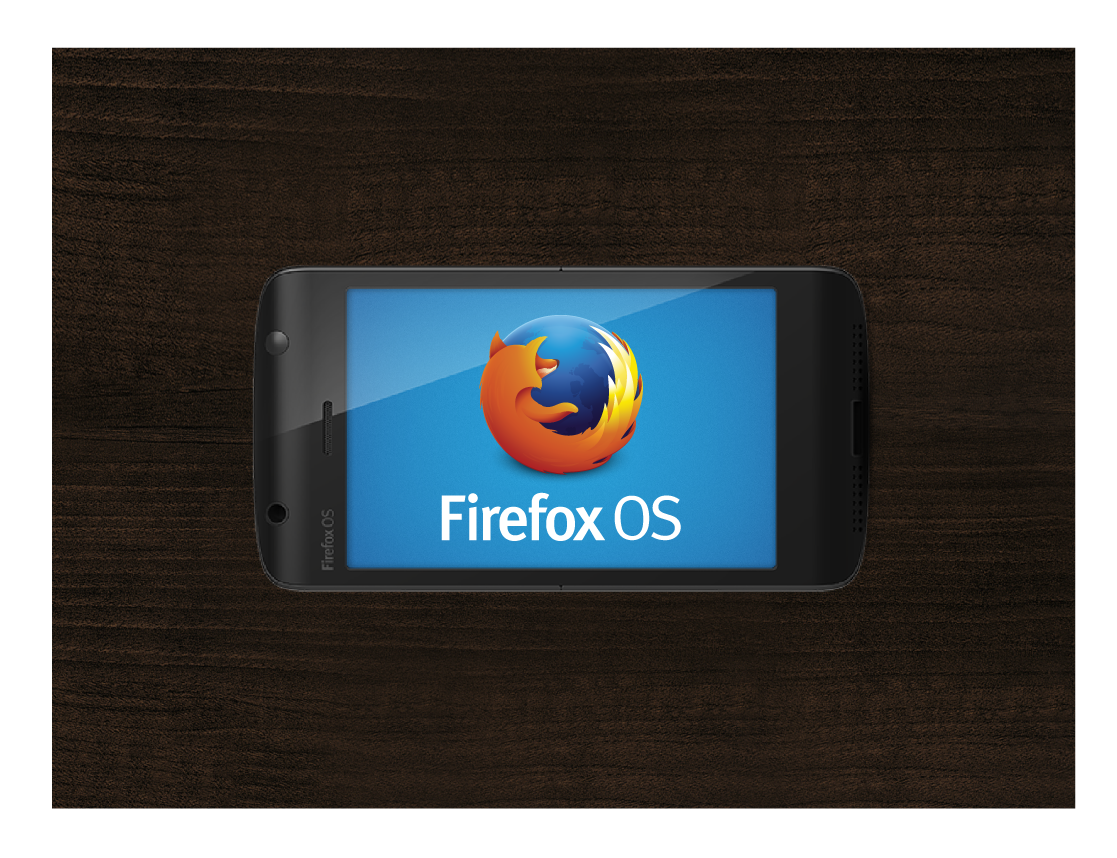
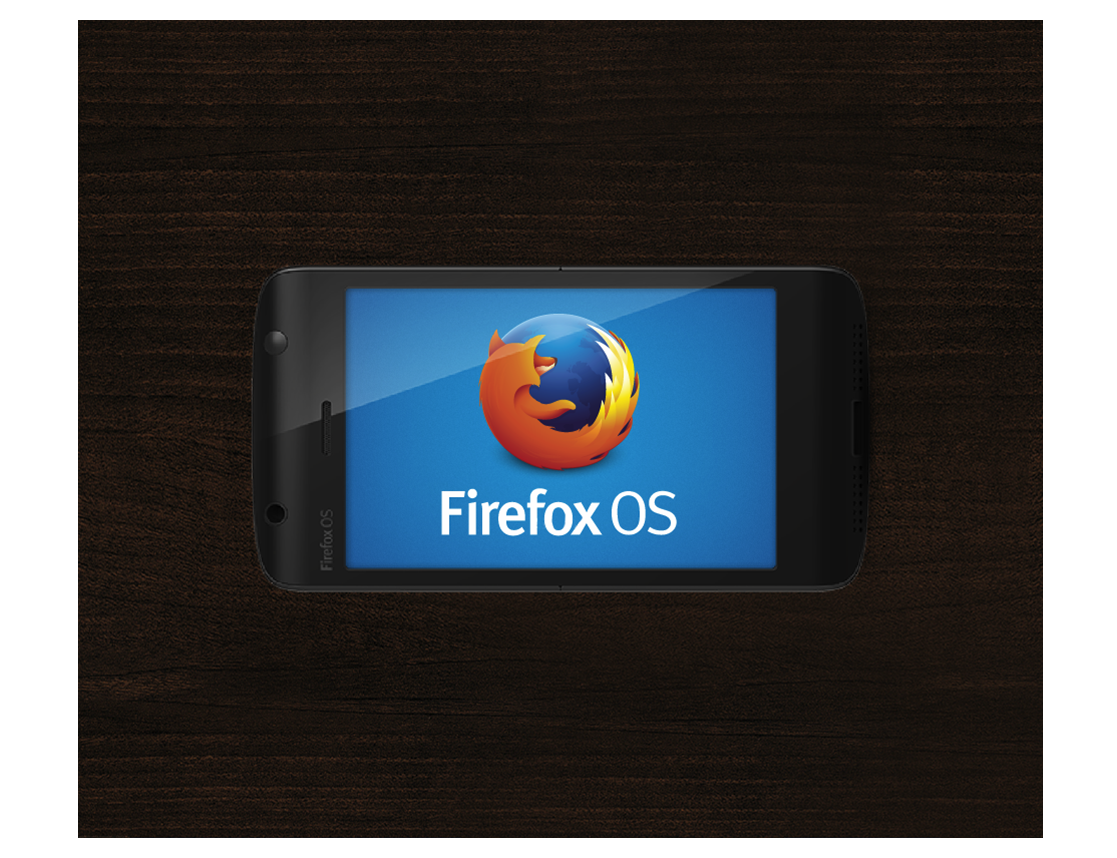
Campaign info animations.

diff --git a/static/js/event/every-moment.js b/static/js/event/every-moment.js
@@ -505,16 +505,16 @@ ImageClock = (function () {
         var brickGFall = TweenMax.to($('.phone-brick-g'), 1, {css: {top: '420px'}});
         var brickHFall = TweenMax.to($('.phone-brick-h'), 1, {css: {top: '586px'}});
 
-        var page2On = TweenMax.to($('.phone-page2'), 1, {css: {opacity: 1}});
-        var page3On = TweenMax.to($('.phone-page3'), 1, {css: {opacity: 1}});
+        var brickPage2On = TweenMax.to($('.phone-brick .phone-page2'), 1, {css: {opacity: 1}});
+        var brickPage3On = TweenMax.to($('.phone-brick .phone-page3'), 1, {css: {opacity: 1}});
         var foxShow = TweenMax.to($('.fxos-firefox'), 1, {css: {left: '38px'}});
-        var page4SlideIn = TweenMax.to($('.phone-page4'), 1, {css: {top: 0}});
+        var brickPage4SlideIn = TweenMax.to($('.phone-brick .phone-page4'), 1, {css: {top: 0}});
         var foxHide = TweenMax.to($('.fxos-firefox'), 1, {css: {top: '100%'}});
-        var page4SlideOut = TweenMax.to($('.phone-page4'), 1, {css: {top: '-100%'}});
-        function getPage5Slide(brick) {
+        var brickPage4SlideOut = TweenMax.to($('.phone-brick .phone-page4'), 1, {css: {top: '-100%'}});
+        function getBrickPage5Slide(brick) {
             return TweenMax.to($('.phone-brick-'+brick+' .phone-page5'), 1, {css: {left: 0}});
         }
-        var page6Slide = TweenMax.to($('.phone-page6'), 1, {css: {left: 0}});
+        var brickPage6Slide = TweenMax.to($('.phone-brick .phone-page6'), 1, {css: {left: 0}});
 
         var brickFallStart = 750;
         var brickFallDur = 500;
@@ -522,21 +522,21 @@ ImageClock = (function () {
         var pageSlideDur = 250;
         var brickFallInterval = 250;
         var brickFallPos = brickFallStart;
-        function currentBrickFallPos() {
+        function currentPos() {
             return brickFallPos;
         }
-        function nextBrickFallPos() {
+        function nextPos() {
             brickFallPos += brickFallInterval;
             return brickFallPos;
         }
-        function addNextBrickFallPos(interval) {
+        function addNextPos(interval) {
             brickFallPos += interval;
             return brickFallPos;
         }
 
-        var brickWallZoom = TweenMax.to($('.phone-brick-wall'), 1, {css: {'padding': '0 828px 0 0', width: '1920px', height: '1500px'}});
+        var brickWallZoom = TweenMax.to($('.phone-brick-wall'), 1, {css: {'padding': '0 838px 0 0', width: '1920px', height: '1500px'}});
         var brickAZoom = TweenMax.to($('.phone-brick-a'), 1, {css: {top: '0px', left: '0px', width: '828px', height: '558px'}});
-        var brickBZoom = TweenMax.to($('.phone-brick-b'), 1, {css: {top: '0px', left: '820px', width: '1092px', height: '840px'}});
+        var brickBZoom = TweenMax.to($('.phone-brick-b'), 1, {css: {top: '0px', left: '820px', width: '1110px', height: '860px'}});
         var brickCZoom = TweenMax.to($('.phone-brick-c'), 1, {css: {top: '558px', left: '0px', width: '310px', height: '282px'}});
         var brickDZoom = TweenMax.to($('.phone-brick-d'), 1, {css: {top: '558px', left: '310px', width: '518px', height: '282px'}});
         var brickEZoom = TweenMax.to($('.phone-brick-e'), 1, {css: {top: '836px', left: '0px', width: '950px', height: '660px'}});
@@ -544,39 +544,97 @@ ImageClock = (function () {
         var brickGZoom = TweenMax.to($('.phone-brick-g'), 1, {css: {top: '838px', left: '1602px', width: '310px', height: '660px'}});
         var brickHZoom = TweenMax.to($('.phone-brick-h'), 1, {css: {top: '1166px', left: '950px', width: '660px', height: '328px'}});
 
-        controller.addTween(bricksHook, brickHFall, brickFallDur, nextBrickFallPos());
-        controller.addTween(bricksHook, brickGFall, brickFallDur, nextBrickFallPos());
-        controller.addTween(bricksHook, brickFFall, brickFallDur, nextBrickFallPos());
-        controller.addTween(bricksHook, brickEFall, brickFallDur, nextBrickFallPos());
-        controller.addTween(bricksHook, brickDFall, brickFallDur, nextBrickFallPos());
-        controller.addTween(bricksHook, brickCFall, brickFallDur, nextBrickFallPos());
-        controller.addTween(bricksHook, brickBFall, brickFallDur, nextBrickFallPos());
-        controller.addTween(bricksHook, brickAFall, brickFallDur, nextBrickFallPos());
+        var brickBHide1 = TweenMax.to($('.phone-brick-b .phone-page'), 1, {css: {opacity: 0}});
+        var brickBHide2 = TweenMax.to($('.phone-brick-b .phone-page6'), 1, {css: {opacity: 0}});
+        var woodDeskShow = TweenMax.to($('#rules #description, #wood-desk'), 1, {css: {opacity: 1}});
 
-        controller.addTween(bricksHook, page2On, brickFallDur, addNextBrickFallPos(500));
-        controller.addTween(bricksHook, page3On, brickFallDur, addNextBrickFallPos(1000));
-        controller.addTween(bricksHook, foxShow, brickFallDur, addNextBrickFallPos(500));
-        controller.addTween(bricksHook, page4SlideIn, pageSlideDur, addNextBrickFallPos(250));
-        controller.addTween(bricksHook, foxHide, brickFallDur, addNextBrickFallPos(1500));
-        controller.addTween(bricksHook, page4SlideOut, pageSlideDur, currentBrickFallPos());
+        var brickWallZoom2 = TweenMax.to($('.phone-brick-wall'), 1, {css: {top: '-90px', 'padding': '0 1257px 0 0', width: '2880px', height: '2250px'}});
+        var brickAZoom2 = TweenMax.to($('.phone-brick-a'), 1, {css: {top: '0px', left: '0px', width: '1242px', height: '837px'}});
+        var brickBZoom2 = TweenMax.to($('.phone-brick-b'), 1, {css: {top: '0px', left: '1232px', width: '1665px', height: '1290px'}});
+        var brickCZoom2 = TweenMax.to($('.phone-brick-c'), 1, {css: {top: '837px', left: '0px', width: '465px', height: '423px'}});
+        var brickDZoom2 = TweenMax.to($('.phone-brick-d'), 1, {css: {top: '837px', left: '465px', width: '777px', height: '423px'}});
+        var brickEZoom2 = TweenMax.to($('.phone-brick-e'), 1, {css: {top: '1254px', left: '0px', width: '1425px', height: '990px'}});
+        var brickFZoom2 = TweenMax.to($('.phone-brick-f'), 1, {css: {top: '1257px', left: '1425px', width: '990px', height: '498px'}});
+        var brickGZoom2 = TweenMax.to($('.phone-brick-g'), 1, {css: {top: '1257px', left: '2403px', width: '465px', height: '990px'}});
+        var brickHZoom2 = TweenMax.to($('.phone-brick-h'), 1, {css: {top: '1749px', left: '1425px', width: '990px', height: '492px'}});
+        var bricksHide = TweenMax.to($('.phone-brick'), 1, {css: {opacity: 0}});
+
+        var woodDeskExpand = TweenMax.to($('#wood-desk'), 1, {css: {width: '120%', top: '-1000px', bottom: '-1000px'}});
+        var phoneMove = TweenMax.to($('#rules #description .fxos-phone'), 1, {css: {top: '210px'}});
+//        var woodDeskExpand2 = TweenMax.to($('#rules #description'), 1, {css: {width: '200%'}});
+
+        var woodDeskTurn = TweenMax.to($('#wood-desk'), 1, {css: {transform: 'rotate(90deg)'}});
+        var phoneRotate = TweenMax.to($('#rules #description .fxos-phone'), 1, {css: {transform: 'rotate(90deg)', paddingTop: '150px', paddingLeft: '200px', width: '300px', height: '555px'}});
+
+        var phonePage1Out = TweenMax.to($('#rules #description .fxos-phone .phone-page1'), 1, {css: {left: '-100%', opacity: 0}});
+        var phonePage2In = TweenMax.to($('#rules #description .fxos-phone .phone-page2'), 1, {css: {left: 0}});
+        var phonePage2Out = TweenMax.to($('#rules #description .fxos-phone .phone-page2'), 1, {css: {left: '-100%', opacity: 0}});
+        var phonePage3In = TweenMax.to($('#rules #description .fxos-phone .phone-page3'), 1, {css: {left: 0}});
+        var phonePage3Out = TweenMax.to($('#rules #description .fxos-phone .phone-page3'), 1, {css: {left: '-100%', opacity: 0}});
+        var phonePage4In = TweenMax.to($('#rules #description .fxos-phone .phone-page4'), 1, {css: {left: 0}});
+        var phonePage4Out = TweenMax.to($('#rules #description .fxos-phone .phone-page4'), 1, {css: {left: '-100%', opacity: 0}});
+
+        controller.addTween(bricksHook, brickHFall, brickFallDur, nextPos());
+        controller.addTween(bricksHook, brickGFall, brickFallDur, nextPos());
+        controller.addTween(bricksHook, brickFFall, brickFallDur, nextPos());
+        controller.addTween(bricksHook, brickEFall, brickFallDur, nextPos());
+        controller.addTween(bricksHook, brickDFall, brickFallDur, nextPos());
+        controller.addTween(bricksHook, brickCFall, brickFallDur, nextPos());
+        controller.addTween(bricksHook, brickBFall, brickFallDur, nextPos());
+        controller.addTween(bricksHook, brickAFall, brickFallDur, nextPos());
+
+        controller.addTween(bricksHook, brickPage2On, brickFallDur, addNextPos(500));
+        controller.addTween(bricksHook, brickPage3On, brickFallDur, addNextPos(1000));
+        controller.addTween(bricksHook, foxShow, brickFallDur, addNextPos(500));
+        controller.addTween(bricksHook, brickPage4SlideIn, pageSlideDur, addNextPos(250));
+        controller.addTween(bricksHook, foxHide, brickFallDur, addNextPos(1500));
+        controller.addTween(bricksHook, brickPage4SlideOut, pageSlideDur, currentPos());
 
 
         for (var i in bricks) {
-            controller.addTween(bricksHook, getPage5Slide(bricks[i]), pageSlideDur, addNextBrickFallPos(500));
+            controller.addTween(bricksHook, getBrickPage5Slide(bricks[i]), pageSlideDur, addNextPos(500));
         }
-        controller.addTween(bricksHook, page6Slide, pageSlideDur, addNextBrickFallPos(2000));
+        controller.addTween(bricksHook, brickPage6Slide, pageSlideDur, addNextPos(2000));
 
-        controller.addTween(bricksHook, brickHZoom, brickZoomDur, addNextBrickFallPos(1000));
-        controller.addTween(bricksHook, brickGZoom, brickZoomDur, currentBrickFallPos());
-        controller.addTween(bricksHook, brickFZoom, brickZoomDur, currentBrickFallPos());
-        controller.addTween(bricksHook, brickEZoom, brickZoomDur, currentBrickFallPos());
-        controller.addTween(bricksHook, brickDZoom, brickZoomDur, currentBrickFallPos());
-        controller.addTween(bricksHook, brickCZoom, brickZoomDur, currentBrickFallPos());
-        controller.addTween(bricksHook, brickBZoom, brickZoomDur, currentBrickFallPos());
-        controller.addTween(bricksHook, brickAZoom, brickZoomDur, currentBrickFallPos());
-        controller.addTween(bricksHook, brickWallZoom, brickZoomDur, currentBrickFallPos());
+        controller.addTween(bricksHook, brickHZoom, brickZoomDur, addNextPos(1000));
+        controller.addTween(bricksHook, brickGZoom, brickZoomDur, currentPos());
+        controller.addTween(bricksHook, brickFZoom, brickZoomDur, currentPos());
+        controller.addTween(bricksHook, brickEZoom, brickZoomDur, currentPos());
+        controller.addTween(bricksHook, brickDZoom, brickZoomDur, currentPos());
+        controller.addTween(bricksHook, brickCZoom, brickZoomDur, currentPos());
+        controller.addTween(bricksHook, brickBZoom, brickZoomDur, currentPos());
+        controller.addTween(bricksHook, brickAZoom, brickZoomDur, currentPos());
+        controller.addTween(bricksHook, brickWallZoom, brickZoomDur, currentPos());
 
-        bricksHook.css('height', currentBrickFallPos()+'px');
+        controller.addTween(bricksHook, brickBHide1, 1, currentPos());
+        controller.addTween(bricksHook, woodDeskShow, 1, currentPos());
+        controller.addTween(bricksHook, brickBHide2, 100, addNextPos(1500));
+
+        controller.addTween(bricksHook, brickHZoom2, brickZoomDur, addNextPos(100));
+        controller.addTween(bricksHook, brickGZoom2, brickZoomDur, currentPos());
+        controller.addTween(bricksHook, brickFZoom2, brickZoomDur, currentPos());
+        controller.addTween(bricksHook, brickEZoom2, brickZoomDur, currentPos());
+        controller.addTween(bricksHook, brickDZoom2, brickZoomDur, currentPos());
+        controller.addTween(bricksHook, brickCZoom2, brickZoomDur, currentPos());
+        controller.addTween(bricksHook, brickBZoom2, brickZoomDur, currentPos());
+        controller.addTween(bricksHook, brickAZoom2, brickZoomDur, currentPos());
+        controller.addTween(bricksHook, brickWallZoom2, brickZoomDur, currentPos());
+        controller.addTween(bricksHook, woodDeskExpand, brickZoomDur, currentPos());
+        controller.addTween(bricksHook, phoneMove, brickZoomDur, currentPos());
+
+        controller.addTween(bricksHook, bricksHide, brickZoomDur, addNextPos(brickZoomDur));
+
+        controller.addTween(bricksHook, phonePage1Out, pageSlideDur, addNextPos(1500));
+        controller.addTween(bricksHook, phonePage2In, pageSlideDur, currentPos());
+        controller.addTween(bricksHook, phonePage2Out, pageSlideDur, addNextPos(1500));
+        controller.addTween(bricksHook, phonePage3In, pageSlideDur, currentPos());
+        controller.addTween(bricksHook, phonePage3Out, pageSlideDur, addNextPos(1500));
+        controller.addTween(bricksHook, phonePage4In, pageSlideDur, currentPos());
+        controller.addTween(bricksHook, phonePage4Out, pageSlideDur, addNextPos(1500));
+
+        controller.addTween(bricksHook, woodDeskTurn, brickZoomDur, addNextPos(1500));
+        controller.addTween(bricksHook, phoneRotate, brickZoomDur, currentPos());
+        bricksHook.css('height', currentPos()+'px');
     }
 
     /**

diff --git a/static/css/event/every-moment.less b/static/css/event/every-moment.less
@@ -1,24 +1,28 @@
 @import "../ffcstyle";
 
 .js body {
-  overflow: hidden;
+  overflow-x: hidden;
+  overflow-y: hidden;
 }
 
 .momentContent {
 
   .moment-content {
+    transition: all 0.5s ease-in 1s;
     width: 100%;
     height: 100%;
     top: 0;
   }
 
   .title-image {
+    transition: all 0.5s ease-in 1.5s;
     left: 0;
     right: 0;
     opacity: 1;
   }
 
   #clock {
+    transition: all 0.5s ease-in 2s;
     left: 43px;
   }
 }
@@ -113,7 +117,6 @@
 
     .moment-content {
       position: fixed;
-      transition: all 0.5s ease-in 1s;
       background: url(/static/img/event/every-moment/home/bg-blue.png);
       background-size: 100% auto;
       margin: auto;
@@ -126,7 +129,6 @@
       z-index: 1;
     }
     .title-image {
-      transition: all 0.5s ease-in 1.5s;
       position: absolute;
       left: -100%;
       right: 100%;
@@ -137,7 +139,6 @@
     }
 
     #clock {
-      transition: all 0.5s ease-in 2s;
       position: absolute;
       left: 100%;
       bottom: 120px;
@@ -295,11 +296,11 @@
   #wall1 {
     .wall;
     .phone-brick-wall {
-      z-index: 2;
+      z-index: 4;
 //      background-color: red;
       position: fixed;
-      left: -1000px;
-      right: -1000px;
+      left: -2000px;
+      right: -2000px;
       top: 0;
     }
     .fxos-firefox {
@@ -393,49 +394,96 @@
   height: 336px;
   margin: auto;
   position: absolute;
-  top: 200px;
+  top: 263px;
   left: 0;
   right: 0;
+  transform-origin: 50% 0;
+  -webkit-transform-origin: 50% 0;
+  -ms-transform-origin: 50% 0;
+  img {
+    position: absolute;
+  }
+  .phone-pages {
+    position: absolute;
+    width: 72%;
+    height: 90%;
+    margin-left: 14%;
+    margin-top: 2%;
+    overflow: hidden;
+  }
+  .phone-page2 {
+    left: 100%;
+  }
+  .phone-page3 {
+    left: 100%;
+  }
+  .phone-page4 {
+    left: 100%;
+  }
   .phone-frame {
     position: absolute;
-    background: url(/static/img/event/every-moment/home/info/phone.png);
+    background: url(/static/img/event/every-moment/home/info/phone.png) no-repeat;
+    background-size: 100%;
     width: 100%;
     height: 100%;
   }
   .phone-info {
     position: absolute;
-    background: url('/static/img/event/every-moment/home/info/@{image}');
-    width: 455px;
-    height: 300px;
-    margin-left: 92px;
-    margin-top: 15px;
+    background: url('/static/img/event/every-moment/home/info/@{image}') no-repeat;
+    background-size: 100%;
+    width: 72%;
+    height: 90%;
+    margin-left: 14%;
+    margin-top: 2%;
   }
   .phone-bg {
     position: absolute;
-    background: url(/static/img/event/every-moment/home/info/blue.png);
-    width: 455px;
-    height: 300px;
-    margin-left: 92px;
-    margin-top: 15px;
+    background: url(/static/img/event/every-moment/home/info/blue.png) no-repeat;
+    background-size: 100%;
+    width: 72%;
+    height: 90%;
+    margin-left: 14%;
+    margin-top: 2%;
   }
 }
 
 .wood-desk {
   position: relative;
+  width: 966px;
   background: url(/static/img/event/every-moment/home/bg-wood.png);
-  background-size: 100% auto;
-  width: 100%;
-  height: 750px;
+  height: 2096px;
+  transform-origin: 50% 50%;
+}
+
+#wood-desk {
+  .wood-desk;
+    z-index: 1;
+    position: fixed;
+    top: 0px;
+    bottom: 0px;
+    left: -1000px;
+    right: -1000px;
+    margin: auto;
+    opacity: 0;
 }
 
 #rules {
-  background: url(/static/img/event/every-moment/home/bg-wood.png);
-  background-size: 100% auto;
+//  background: url(/static/img/event/every-moment/home/bg-wood.png);
+//  background-size: 100% auto;
 
   #description {
     .wood-desk;
+    background: none;
+    z-index: 3;
+    position: fixed;
+    top: 0;
+    left: 0;
+    right: 0;
+    margin: auto;
+    opacity: 0;
+
     .fxos-phone {
-      .fxos-phone-horizontal('info.png');
+      .fxos-phone-horizontal('firefoxos.png');
     }
   }
   #timeline {

diff --git a/ffclub/event/templates/event/every-moment/index.html b/ffclub/event/templates/event/every-moment/index.html
@@ -42,11 +42,11 @@
           <img class="phone-brick-frame" src="{{ static('img/event/every-moment/home/mobile/mobile-a.png') }}">
         </div>
         <div class="phone-brick phone-brick-b">
-          <img class="phone-page1" src="/static/img/event/every-moment/home/mobile/mobile-bg-b.png">
-          <img class="phone-page2" src="/static/img/event/every-moment/home/mobile/mobile-bgos-b.png">
-          <img class="phone-page3" src="/static/img/event/every-moment/home/mobile/mobile-bgb-b.png">
-          <img class="phone-page4" src="/static/img/event/every-moment/home/mobile/mobile-b-word-title.png">
-          <img class="phone-page5" src="/static/img/event/every-moment/home/mobile/mobile-pic-b.png">
+          <img class="phone-page1 phone-page" src="/static/img/event/every-moment/home/mobile/mobile-bg-b.png">
+          <img class="phone-page2 phone-page" src="/static/img/event/every-moment/home/mobile/mobile-bgos-b.png">
+          <img class="phone-page3 phone-page" src="/static/img/event/every-moment/home/mobile/mobile-bgb-b.png">
+          <img class="phone-page4 phone-page" src="/static/img/event/every-moment/home/mobile/mobile-b-word-title.png">
+          <img class="phone-page5 phone-page" src="/static/img/event/every-moment/home/mobile/mobile-pic-b.png">
           <img class="phone-page6" src="/static/img/event/every-moment/home/mobile/big/mobile-big-pic-b.png">
           <img class="phone-brick-frame" src="{{ static('img/event/every-moment/home/mobile/mobile-b.png') }}">
         </div>
@@ -130,12 +130,18 @@
       </div>
     </div>
   </div>
+  <div id="wood-desk">
+  </div>
   <div id="rules">
     <div id="description">
       <div class="fxos-phone">
         <div class="phone-bg">
         </div>
-        <div class="phone-info">
+        <div class="phone-pages">
+          <img class="phone-page1" src="/static/img/event/every-moment/home/info/firefoxos.png">
+          <img class="phone-page2" src="/static/img/event/every-moment/home/info/info.png">
+          <img class="phone-page3" src="/static/img/event/every-moment/home/info/time.png">
+          <img class="phone-page4" src="/static/img/event/every-moment/home/info/award.png">
         </div>
         <div class="phone-frame">
         </div>
